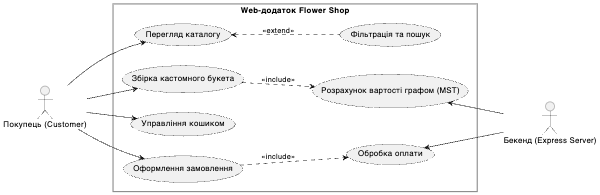
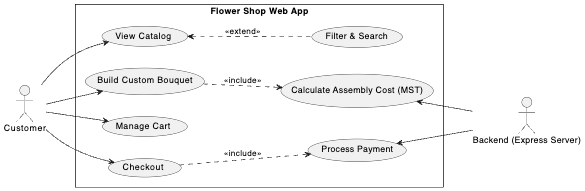
Refactoring, Strategy Pattern implementation, and UML diagrams

diff --git a/backend/server.js b/backend/server.js
@@ -185,6 +185,19 @@ app.get(['/', '/index.html'], (req, res) => {
 });
 // ... (other static routes: /cart.html, /details.html, /checkout.html, etc.)
 
+/**
+ * GET /api/components
+ * Returns a list of individual flowers available for the bouquet builder.
+ */
+app.get('/api/components', (req, res) => {
+    // Фільтруємо лише квіти (Flower), виключаючи готові букети
+    const components = products
+        .filter(p => typeof p.isSuitableForTallVase === 'function') // Перевірка, що це саме квітка
+        .map(hydrateProduct); // Перетворюємо у простий JSON формат
+    
+    res.json(components);
+});
+
 app.listen(PORT, () => {
     console.log(`Server running. Frontend accessible at http://localhost:${PORT}`);
 });

diff --git a/backend/data/entities/ShippingStrategy.js b/backend/data/entities/ShippingStrategy.js
@@ -1,0 +1,19 @@
+export class ShippingStrategy {
+    calculate(address) {
+        throw new Error("Method 'calculate' must be implemented");
+    }
+}
+
+export class NovaPoshtaStrategy extends ShippingStrategy {
+    calculate(address) {
+        console.log(`Calculating Nova Poshta delivery to ${address}...`);
+        return 80;
+    }
+}
+
+export class PickupStrategy extends ShippingStrategy {
+    calculate(address) {
+        console.log("Customer will pick up the order.");
+        return 0;
+    }
+}

diff --git a/backend/data/entities/Order.js b/backend/data/entities/Order.js
@@ -75,4 +75,17 @@ export class Order {
         }
         return false;
     }
+
+    setShippingStrategy(strategy) {
+        this.shippingStrategy = strategy;
+    }
+
+    getShippingCost() {
+    if (!this.shippingStrategy) return 0;
+        return this.shippingStrategy.calculate(this.customer.getShippingAddress());
+    }
+
+    calculateTotalWithShipping() {
+        return this.calculateTotal() + this.getShippingCost();
+    }
 }
